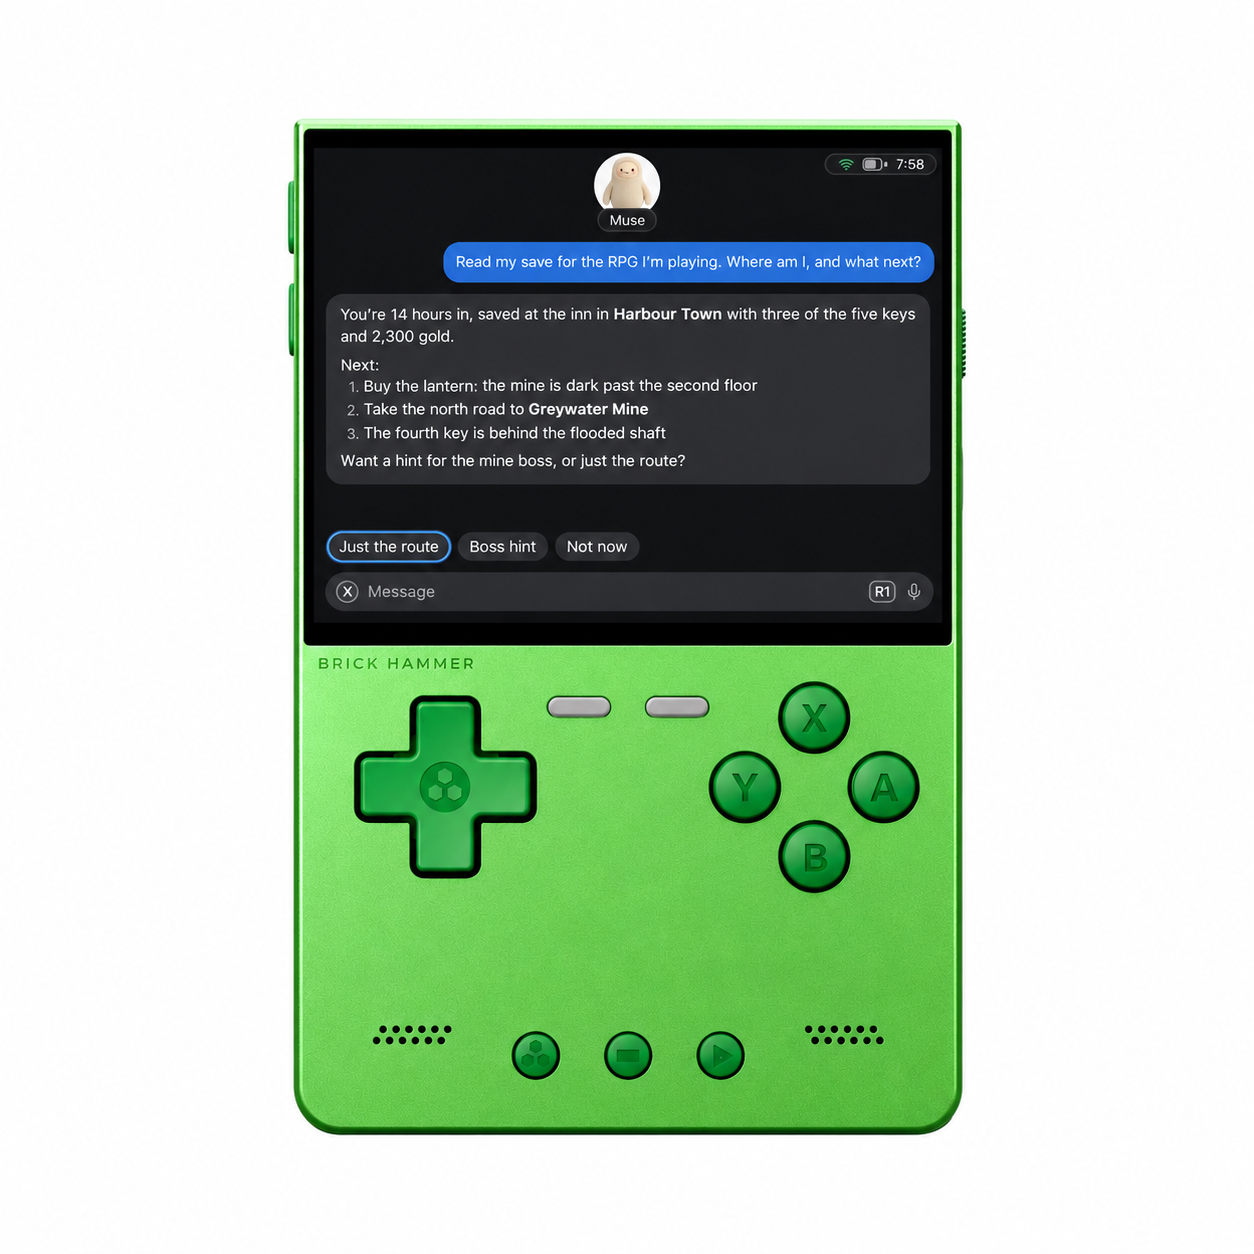
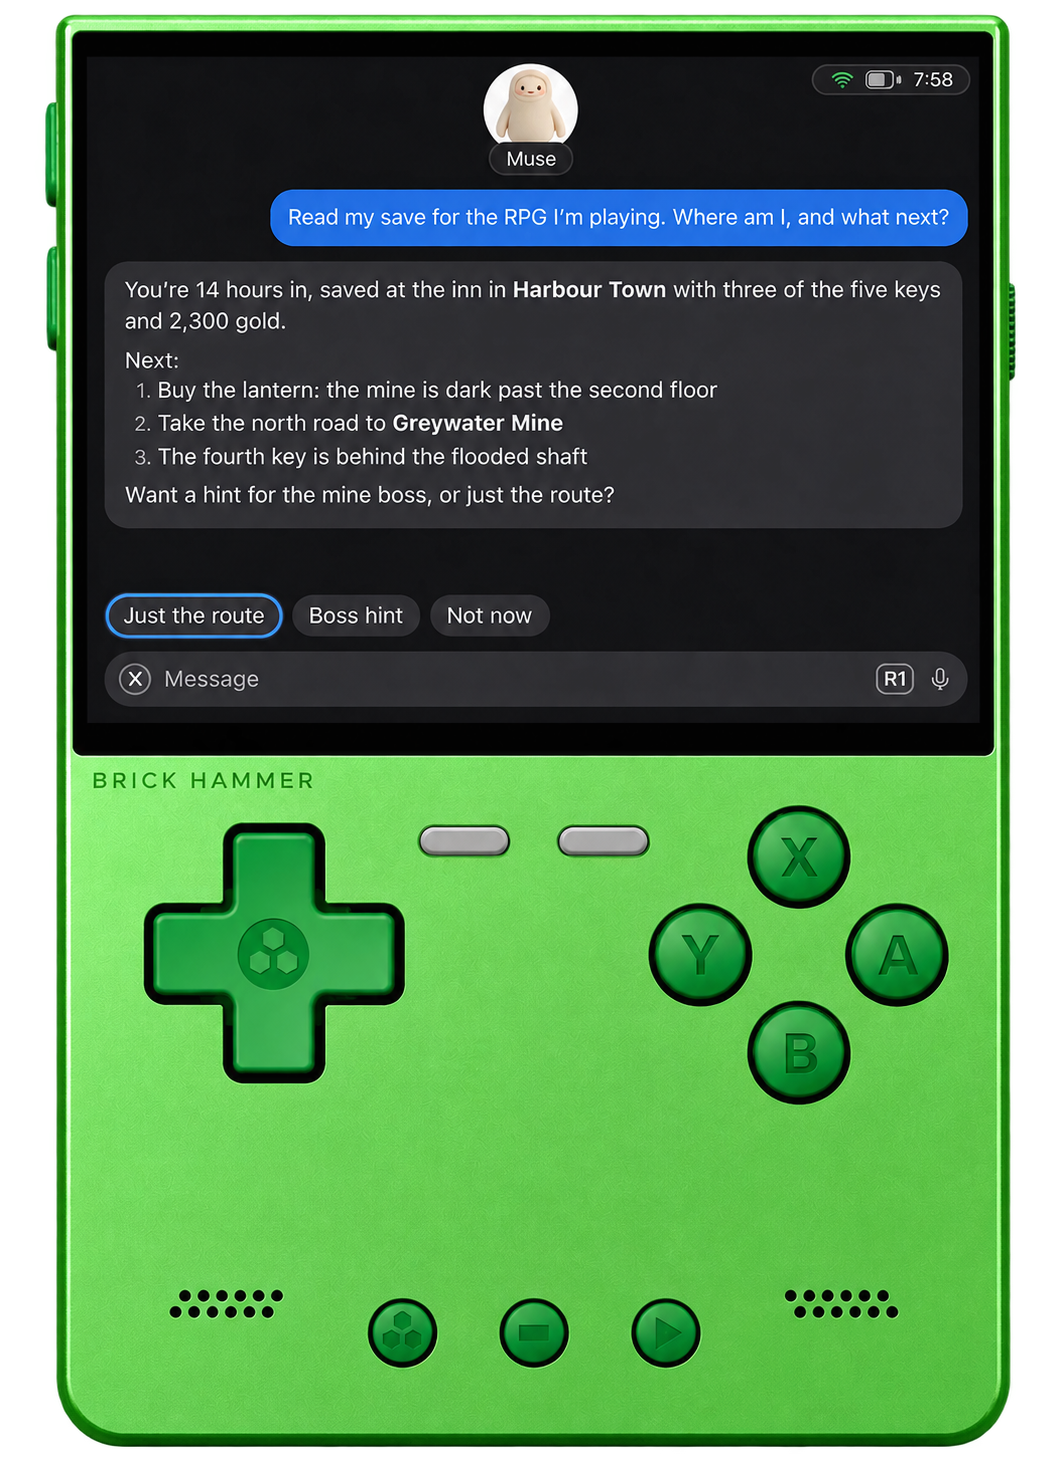
Remove hero background and shrink the displayed device (#20)

diff --git a/docs/images/README.md b/docs/images/README.md
@@ -11,3 +11,12 @@ of Goblin Link running on hardware. It appears immediately below the main README
 Prompt:
 
 > Use case: compositing. Create a high-resolution README product hero by editing input image 1, the official green TrimUI Brick Hammer front-view product photo. Input image 2 is the EXACT Goblin Link chat screenshot to insert into the device display. Preserve the physical device from image1: green metal finish, correct geometry, all buttons and labels, speaker holes, side buttons, perspective and proportions. Replace only the existing screen contents with image2 centered in the screen aperture, showing the COMPLETE screenshot edge-to-edge with its 4:3 aspect ratio preserved. Preserve screenshot text, avatar, blue message, grey reply bubble, suggestion chips, bottom composer and status indicators exactly; no invented or rewritten text. The user calls this screenshot 'Ask it about your games'; do NOT add that phrase as a heading or overlay. Remove all original TRIMUI UI content from inside the screen, but preserve the physical BRICK HAMMER label below it. Output one crisp photoreal product image on a plain white background, device centered, entire device visible with a modest clean margin. Square composition around 1536x1536 or higher. No extra objects, no captions, no promotional lettering, no redesign of the device or UI.
+
+Background-removal edit (built-in image editor):
+
+> Edit this exact image: remove ONLY the white background outside the green handheld, yielding genuine transparent alpha. Tight crop around the whole device with only a tiny transparent margin. Preserve the complete physical device and every screen pixel/text/layout/color/button exactly as supplied; do not redraw, rewrite, reinterpret or beautify anything inside the device. Preserve the entire green edge, side buttons and rounded bottom, no shadow or white halo outside it. Output a high-resolution portrait transparent PNG tightly bounding the device. Do not add checkerboard pixels. The README will handle scaling separately.
+
+The transparent PNG is 1064 × 1478. Its visible device is approximately 985 px wide.
+At README width 283, it appears about 262 px wide, versus about 390 px in the previous
+1254-pixel square image displayed at width 720: a 33% reduction in the visible device.
+The high-resolution asset is retained; only its displayed size is reduced.

diff --git a/README.md b/README.md
@@ -1,7 +1,7 @@
 # Goblin Link for Linux handhelds
 
 <p align="center">
-  <img src="docs/images/brick-hammer-hero.png" width="720" alt="Green TrimUI Brick Hammer showing Goblin Link helping with an RPG save and suggesting where to go next">
+  <img src="docs/images/brick-hammer-hero.png" width="283" alt="Green TrimUI Brick Hammer showing Goblin Link helping with an RPG save and suggesting where to go next">
 </p>
 
 A Muse client for small Linux game handhelds. It turns the handheld into a *Muse gadget*: a
